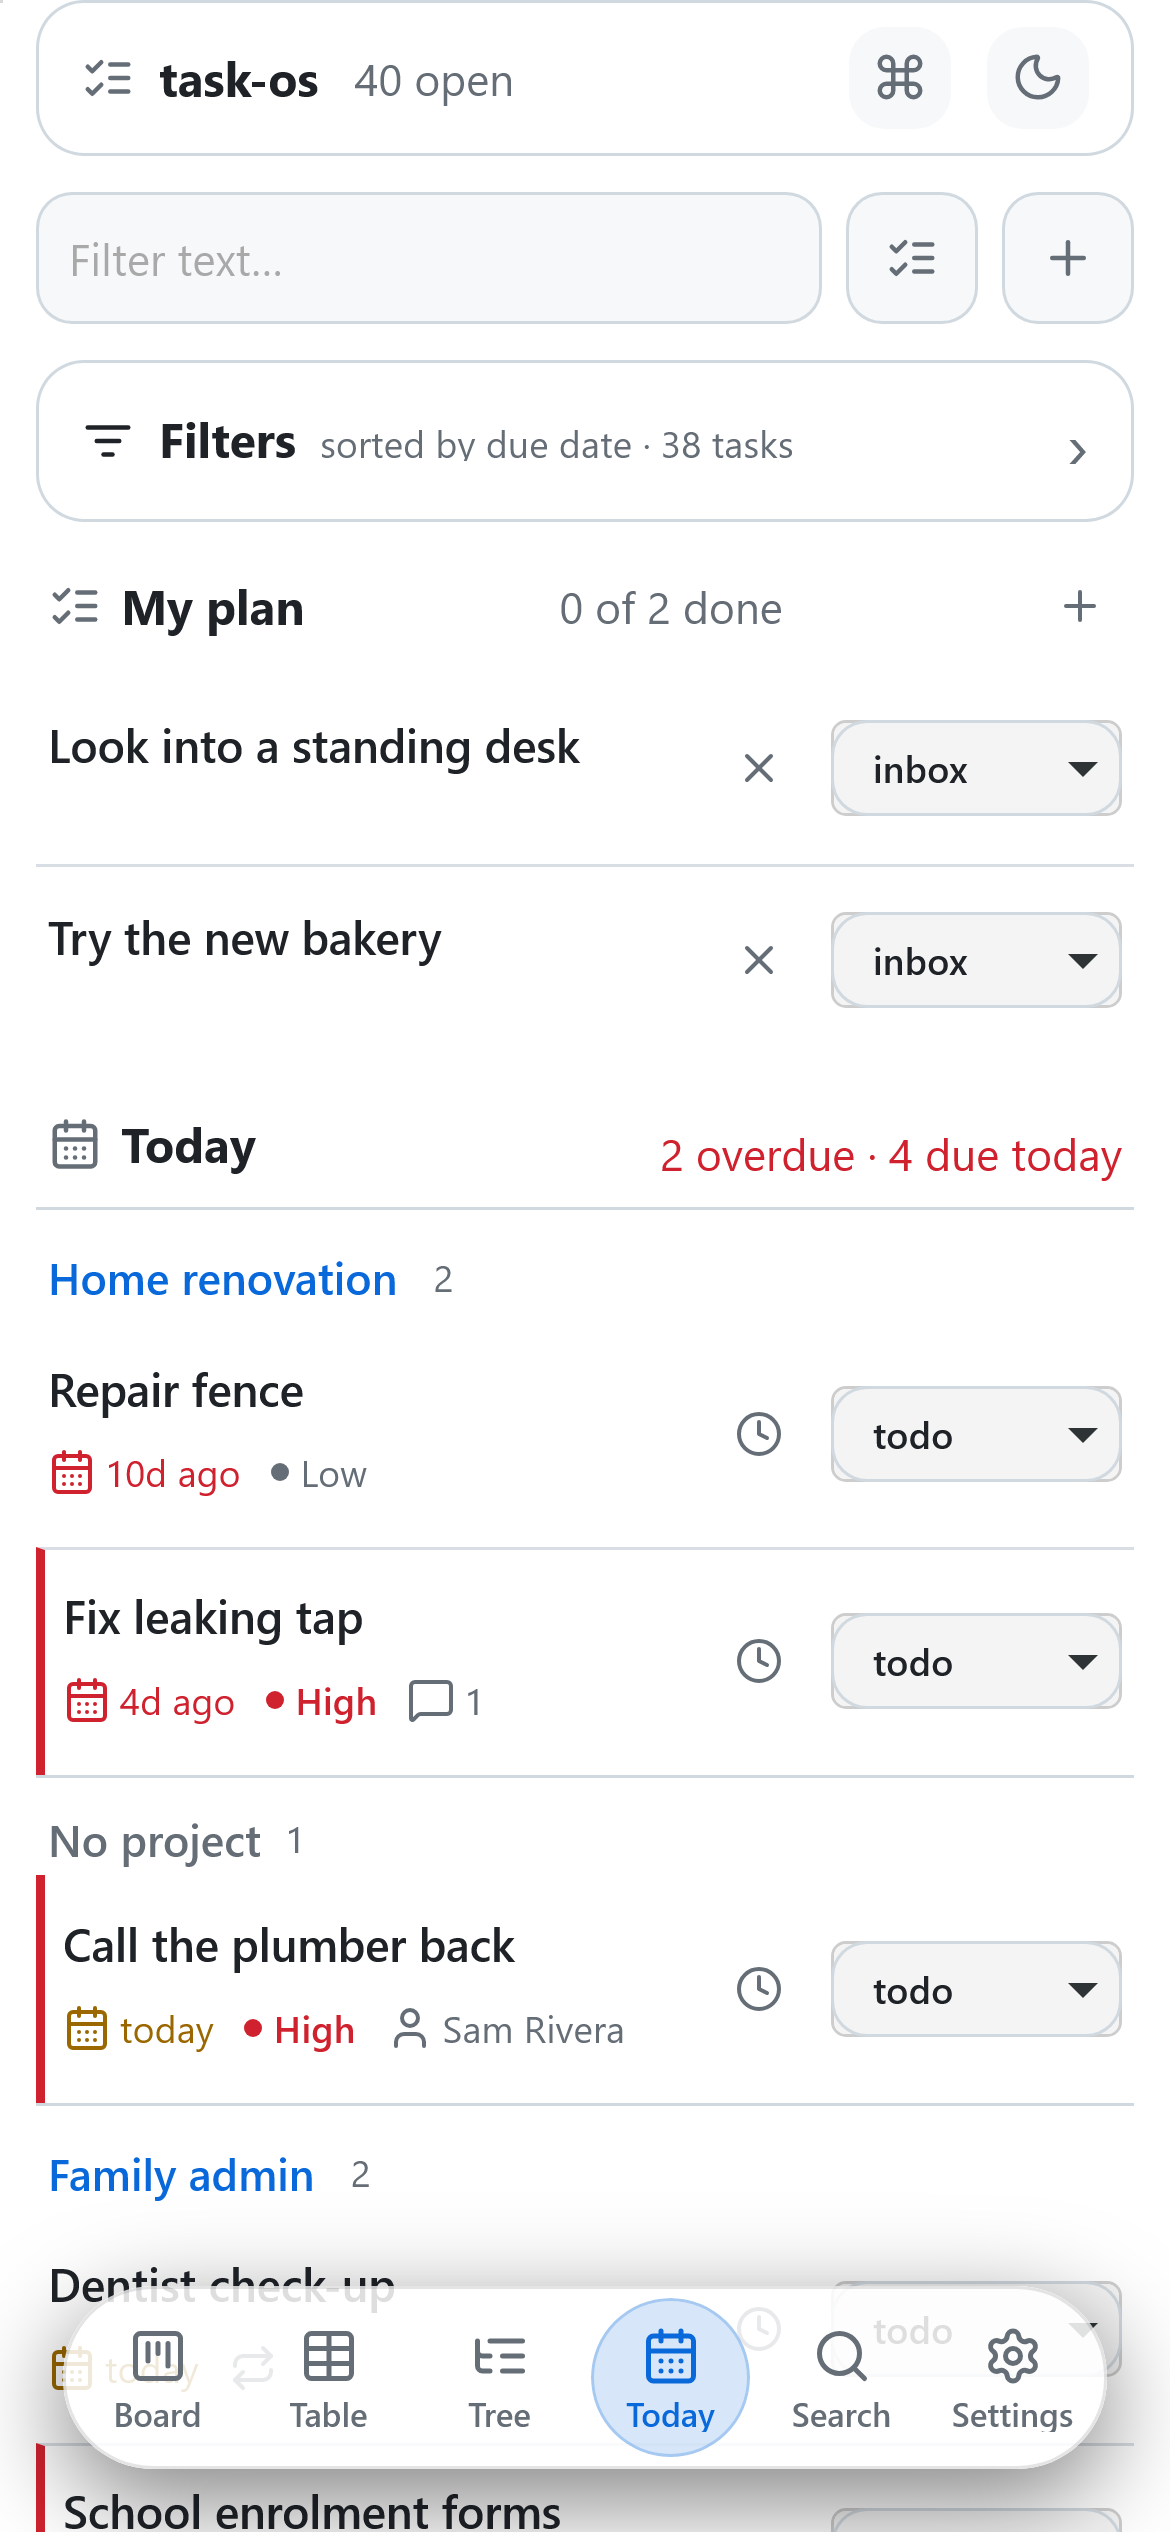
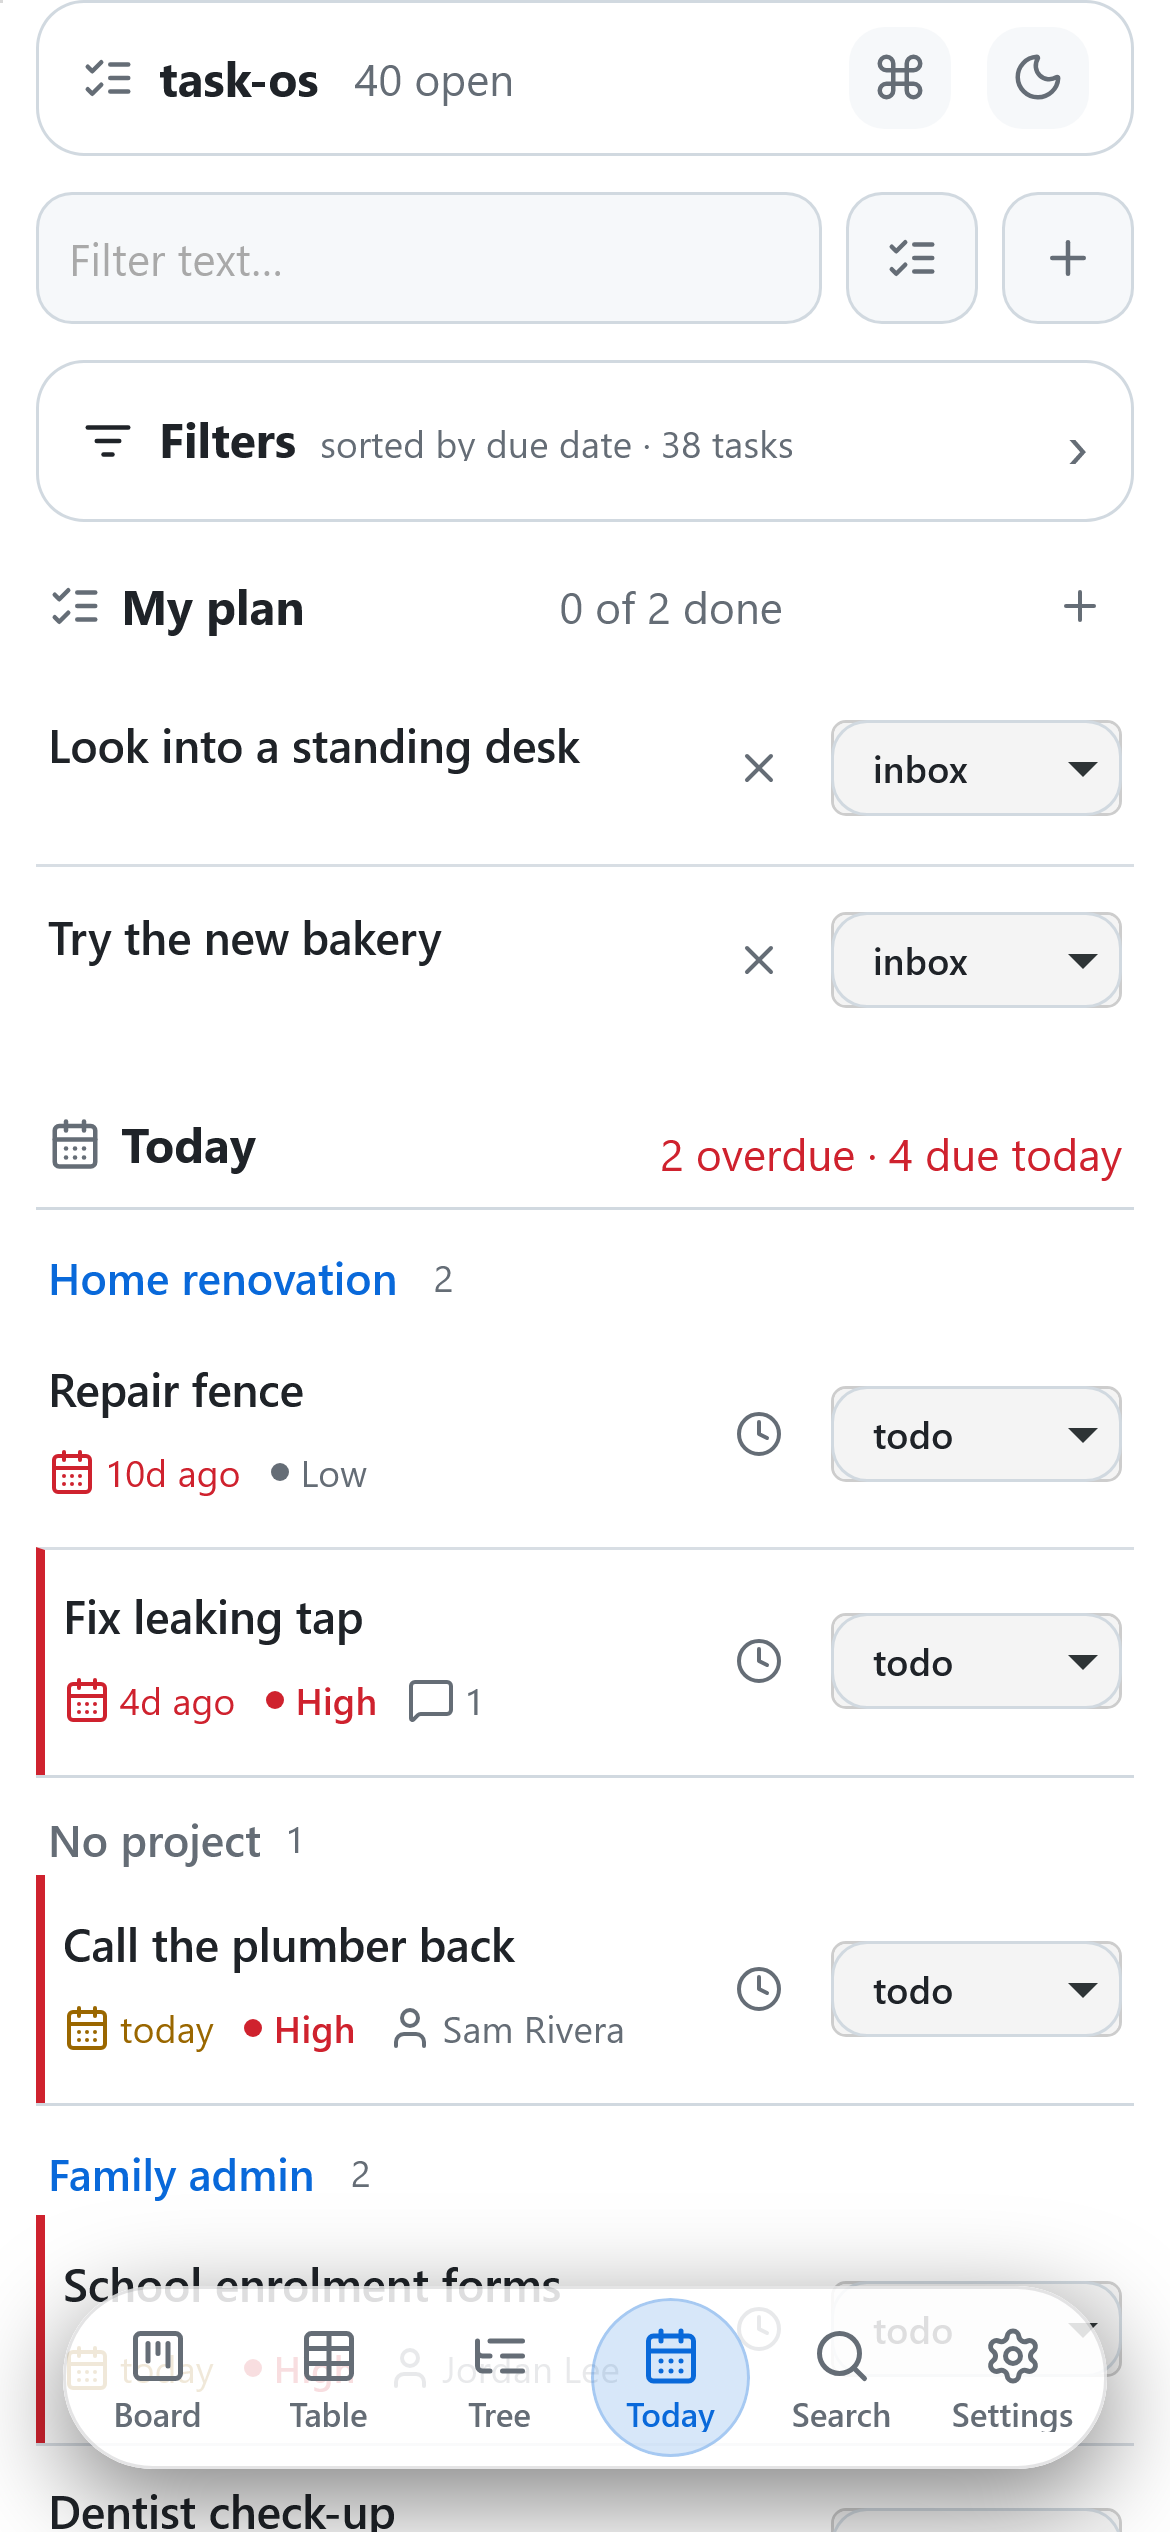
fix: Today's per-group sort orders purely by due date
Recurring tasks were always sorted ahead of non-recurring ones within
a Today group, regardless of due date, so changing a recurring task's
due date to something much later never moved it past a task with an
earlier due date ??? the list looked stuck after an edit. Every other
view (Board/Table/Tree) already sorts purely by the shared
compareItems() comparator; Today's recurring-first tier was the odd
one out. Dropping that tier makes a date/schedule change always
reorder the list, matching what every other view already does.

Updates the story-05 e2e assertions, its validation record, and the
README/comment claims that documented the old recurring-first
behavior as intentional.

Closes #116

diff --git a/app/webapp/static/today.js b/app/webapp/static/today.js
@@ -1,7 +1,8 @@
 /* task-os — the Today tab: what is due, from the shared list.
  *
  * Tasks due ≤ today (overdue first, then today), grouped by root project
- * with recurring tasks first inside each group; "Later this week"
+ * with the shared due-first sort inside each group (#116 — a task's date
+ * always decides its position, recurring or not); "Later this week"
  * (tomorrow … +7 days) sits collapsed below as a flat disclosure. Rows are
  * the ONE task row (rows.js, issue #46) — title + status select (the Board
  * control; the old checkbox is gone), the meta line (project hidden — the
@@ -73,8 +74,9 @@ export function planCandidates(items, today) {
 }
 
 /** [{root, items}] — by top ancestor (null = no project); groups ordered by
- *  earliest due then title; inside a group recurring tasks first, then the
- *  shared sort. */
+ *  earliest due then title; inside a group, the shared sort — same as every
+ *  other view, so editing a task's due date always reorders it correctly
+ *  relative to its group-mates, recurring or not (#116). */
 function groupByRoot(items, sort) {
   const cmp = compareItems(sort || 'due');
   const groups = new Map();
@@ -85,7 +87,7 @@ function groupByRoot(items, sort) {
   });
   const out = Array.from(groups.values());
   out.forEach(function (g) {
-    g.items.sort(function (a, b) { return ((a.recurrence ? 0 : 1) - (b.recurrence ? 0 : 1)) || cmp(a, b); });
+    g.items.sort(cmp);
   });
   out.sort(function (a, b) {
     const ad = a.items.reduce(function (m, it) { return m == null || it.due < m ? it.due : m; }, null) || '';

diff --git a/app/webapp/static/index.html b/app/webapp/static/index.html
@@ -449,8 +449,9 @@
           <div class="bulk-bar" id="todayBulk" hidden></div>
         </div>
         <div class="filter-host" id="todayFilters" hidden></div>
-        <!-- Due ≤ today grouped by project, recurring first; "Later this week"
-             collapsed below (today.js). The phone's landing tab. -->
+        <!-- Due ≤ today grouped by project, sorted by due within a group;
+             "Later this week" collapsed below (today.js). The phone's
+             landing tab. -->
         <div id="todayHost" data-empty="tasks"></div>
       </div>
     </section>

diff --git a/tests/e2e/test_story_05_board.py b/tests/e2e/test_story_05_board.py
@@ -5,8 +5,9 @@
     opens the quick-add dialog (#80) → project chip
     filters to one project (shared with the Table, encoded in the URL) → drag
     a row doing → standby → the counts update and the activity log has the
-    row → Today tab lists due / overdue grouped by project, recurring first →
-    mark a recurring task complete → its due rolls a cadence forward and it
+    row → Today tab lists due / overdue grouped by project, sorted by due
+    then priority within a group → mark a recurring task complete → its due
+    rolls a cadence forward and it
     leaves Today's due list, then mark it done instead → it closes for good
     (issue #54) → mark a plain task done → it lands in the Board's Done
     today.
@@ -239,7 +240,8 @@ def test_desktop_board_day(seeded_webapp: str, browser: Browser, shots: Path) ->
         drawer.locator(".drawer-close").click()
         expect(drawer).to_be_hidden()
 
-        # 6. Today: due ≤ today grouped by root project, overdue first, recurring first.
+        # 6. Today: due ≤ today grouped by root project, overdue first, sorted
+        #    by due then priority within a group — recurring or not (#116).
         page.click("nav.tabs .tab[data-tab='today']")
         expect(page.locator("#paneToday")).to_be_visible()
         today = _get(base, "/api/today")
@@ -254,12 +256,15 @@ def test_desktop_board_day(seeded_webapp: str, browser: Browser, shots: Path) ->
             "els => els.map(e => e.firstChild.textContent.trim())"
         )
         assert titles[0] == "Home renovation" and "Family admin" in titles and "No project" in titles
-        # first group holds only overdue rows; a group's recurring rows lead
+        # first group holds only overdue rows
         expect(groups.first.locator(".trow.is-overdue")).to_have_count(2)
         fam = groups.filter(has=page.locator(".today-group-link", has_text="Family admin"))
         fam_titles = fam.locator(".trow-title").evaluate_all("els => els.map(e => e.textContent)")
-        assert fam_titles == ["Dentist check-up", "School enrolment forms"]
-        expect(fam.locator(".trow").first.locator(".trow-recur")).to_be_visible()
+        # both due today — the tie breaks on priority, not on the recurring
+        # "Dentist check-up" being recurring (#116: a task's schedule always
+        # decides its position, so a date/priority change actually reorders it)
+        assert fam_titles == ["School enrolment forms", "Dentist check-up"]
+        expect(fam.locator(".trow").last.locator(".trow-recur")).to_be_visible()
         # the ONE row here too (#46): the status select on every row; the
         # project is NOT repeated on the meta line — the group already names it
         school = _today_row(page, "School enrolment forms")

diff --git a/README.md b/README.md
@@ -46,7 +46,7 @@ PC-first and full-width; the phone gets the same views as an adaptive second ren
 - **Board** — the status columns: **Inbox · Todo · Doing · Standby · Done today** (done today = completed on the current local day; press the `done` pill to see all done tasks instead). On a wide screen (≥ 1024 px) the columns sit side by side using the full width, each scrolling on its own under a sticky header with its count; on the phone they are a one-column scroll-snap carousel and the count strip above doubles as the column switcher (the fleet launcher's board layout, ported). Flat regions split by 1px hairlines. Status pills hide the columns not selected. **Drag a row onto another column** to change its status (`PATCH`, an activity row, a toast on error) or use the row's select.
 - **Select several tasks at once** (#81) — the checklist toggle in the Board's and the Table's top strip turns every card/row into a tick target (drag is off while it is on, and a tap on the phone selects rather than opening — the horizontal swipe still belongs to the Board's carousel). It is **one selection**: tick three cards on the Board, switch to the Table, and the same three are ticked there. With at least one ticked, the bulk bar takes the top strip over, on **one line** with every control at the strip's own square height — *N selected* · **set status** (`complete` included, so a recurring task in the selection rolls its due instead of closing, exactly as its own row select would) · **set due** (the native date picker; the natural phrases stay where you type — quick-add, the drawer, the CLI and the API) · ✕ to leave. One `POST /api/tasks/bulk` per action, applied through the same repo layer as a single-task edit, so every task gets its own activity row. A task that fails — deleted in another tab, say — is **named in the toast** (`1 updated · 1 failed (#36: …)`), never dropped in silence; Escape leaves Select mode.
 - **One key per action** (#99) — with a row focused, `e` completes, `1`–`4` set the status, `t` / `w` set the due date, `s` snoozes, `p` cycles priority, `z` undoes, `?` lists them; with tasks ticked the same key acts on the whole selection. See [Keyboard triage](#keyboard-triage).
-- **Today** — tasks due ≤ today (overdue first, then today) grouped by root project, recurring tasks first inside each group, the same rows (status changed through the select — a recurring task also gets a **complete** option that rolls its due one cadence forward instead of closing; **done** always closes for good, recurring or not); group titles in the app's normal title font, a flat heading line with the overdue / due-today counts. Each row also carries the **snooze** control — *Tomorrow · This weekend · Next week · Pick a date…* — which sets the task's start date and takes it off the list, with an Undo in the toast (see [Start dates & snooze](#start-dates--snooze)). **My plan** sits on top — the tasks committed to today, ordered, with the *n of m done* progress line and the plan-your-day banner when the plan is empty (see [Plan my day](#plan-my-day)); a task planned today lives there instead of in the due groups. **Later this week** (tomorrow … +7 days) sits collapsed below as a flat disclosure. This is the phone's landing tab: on a first visit a touch device opens on Today, the desktop on the Board (the last tab is remembered after that).
+- **Today** — tasks due ≤ today (overdue first, then today) grouped by root project, sorted by due date within each group (same as every other view — a schedule change always reorders it), the same rows (status changed through the select — a recurring task also gets a **complete** option that rolls its due one cadence forward instead of closing; **done** always closes for good, recurring or not); group titles in the app's normal title font, a flat heading line with the overdue / due-today counts. Each row also carries the **snooze** control — *Tomorrow · This weekend · Next week · Pick a date…* — which sets the task's start date and takes it off the list, with an Undo in the toast (see [Start dates & snooze](#start-dates--snooze)). **My plan** sits on top — the tasks committed to today, ordered, with the *n of m done* progress line and the plan-your-day banner when the plan is empty (see [Plan my day](#plan-my-day)); a task planned today lives there instead of in the due groups. **Later this week** (tomorrow … +7 days) sits collapsed below as a flat disclosure. This is the phone's landing tab: on a first visit a touch device opens on Today, the desktop on the Board (the last tab is remembered after that).
 - **Table** — the same list as a flat full-width grid on a wide screen: code · title (breadcrumb `Parent › Child` under it) · due (relative, ISO on hover, overdue in the danger tone) · status (the same select) · priority · person · project (the top ancestor) · folder chip · last comment (links rendered as chips) · next action. Click the due cell and the date picker opens on the spot (#107) — pick a day and it is saved. Row click / Enter opens the drawer. In Select mode the grid grows a leading checkbox column of its own (the shared row's checkbox belongs to the phone rendering). Under 768 px the grid has no room, so the Table renders the shared rows — identical to the Board's.
 - **Tree** — the whole hierarchy as an outliner: indent = nesting with a subtle guide line per depth, collapse/expand persists, every node with children carries a **project** chip and a rollup (open descendants, nearest due). Every level orders the same way: open before closed, then by due (none last), then title. On a fine pointer, drag a row onto another to re-parent it (`POST /api/tasks/{id}/move`; a cycle is refused with a toast) — a dashed top-level drop zone appears while a drag is live; on a touch device there is no drag at all: re-parent from the drawer's **Move to** field. Keyboard: ↑/↓ walk, →/← expand/collapse, Enter opens.
 - **Task drawer** — a right-hand side panel on desktop (≥ 1024 px, the list stays visible beside it), full-screen on the phone; deep-linkable as `#task/42`. Breadcrumb (clickable) → editable title → fields (status, priority, due, starts, repeat, person, code, move-to — projects + top level, the re-parent path that needs no drag) → description (markdown, edit/preview) → links (add/remove; an AI-conversation URL is recognised and wears the bot chip — see [AI conversation links](#ai-conversation-links)) → comments newest-first with URLs / `{folder}` refs / `repo#N` as clickable chips + a composer (Ctrl+Enter sends, `origin = ui`) → activity log (`field old → new · actor · time`) → children (click to navigate, add child) → **issue panel**: the linked issue (provider glyph, `repo#N` chip, state pill, labels, last synced, *Sync now*, *Unlink*) or, for a plain task, *Create issue* (repo from the last-seen list or typed) and *Link existing* (`owner/repo#N` or the URL). See [Issues as tasks](#issues-as-tasks).

diff --git a/docs/validation/story-05-board.md b/docs/validation/story-05-board.md
@@ -8,7 +8,7 @@
 2. Pick *Home renovation* in the project select → the URL becomes `?project=<id>`, every card is a descendant of that project, the counts match `GET /api/board?project=<id>`; the **Table** tab's own project select shows the same choice (shared filter state); Clear returns to `/`.
 3. Drag *Get three quotes* from Doing onto Standby → the card renders under Standby, Doing's count −1, Standby's +1; `GET /api/tasks/{id}` says `status = standby` and the newest activity row is `status doing → standby` (also first in `GET /api/activity?task=`).
 4. Click the card → the drawer opens as the right-hand panel (`#task/{id}` in the URL, the columns stay visible to its left); its activity log's first row reads `status doing → standby` with actor and time.
-5. Today tab → header `3 overdue · 5 due today`; groups by root project ordered by earliest due (*Home renovation* first — both rows overdue), then the loose tasks (*No project*), *Family admin*, *Learning*; inside *Family admin* the recurring *Dentist check-up* precedes *School enrolment forms* (person shown); *Later this week* is collapsed with its count.
+5. Today tab → header `3 overdue · 5 due today`; groups by root project ordered by earliest due (*Home renovation* first — both rows overdue), then the loose tasks (*No project*), *Family admin*, *Learning*; inside *Family admin*, both due today, *School enrolment forms* (high priority, person shown) precedes the recurring *Dentist check-up* — the tie breaks on priority, not on which row recurs (#116); *Later this week* is collapsed with its count.
 6. Tick the recurring *Vocabulary review* (weekly, due today) → toast `Done — next: <today+7> (in 7d)`; the API shows the due rolled one week and status still `todo`, activity `due old → new`; the row leaves the due list and appears under *Later this week* once expanded; the header count drops to `4 due today`.
 7. Tick *Return library books* (plain, overdue) → toast `Done: Return library books`; it leaves Today; the Board's **Done today** column shows it with count 1.
 8. Phone (390 wide, touch, nothing persisted): the app **lands on Today**; rows and their checkboxes ≥ 44 px, non-overlapping, no horizontal overflow.
